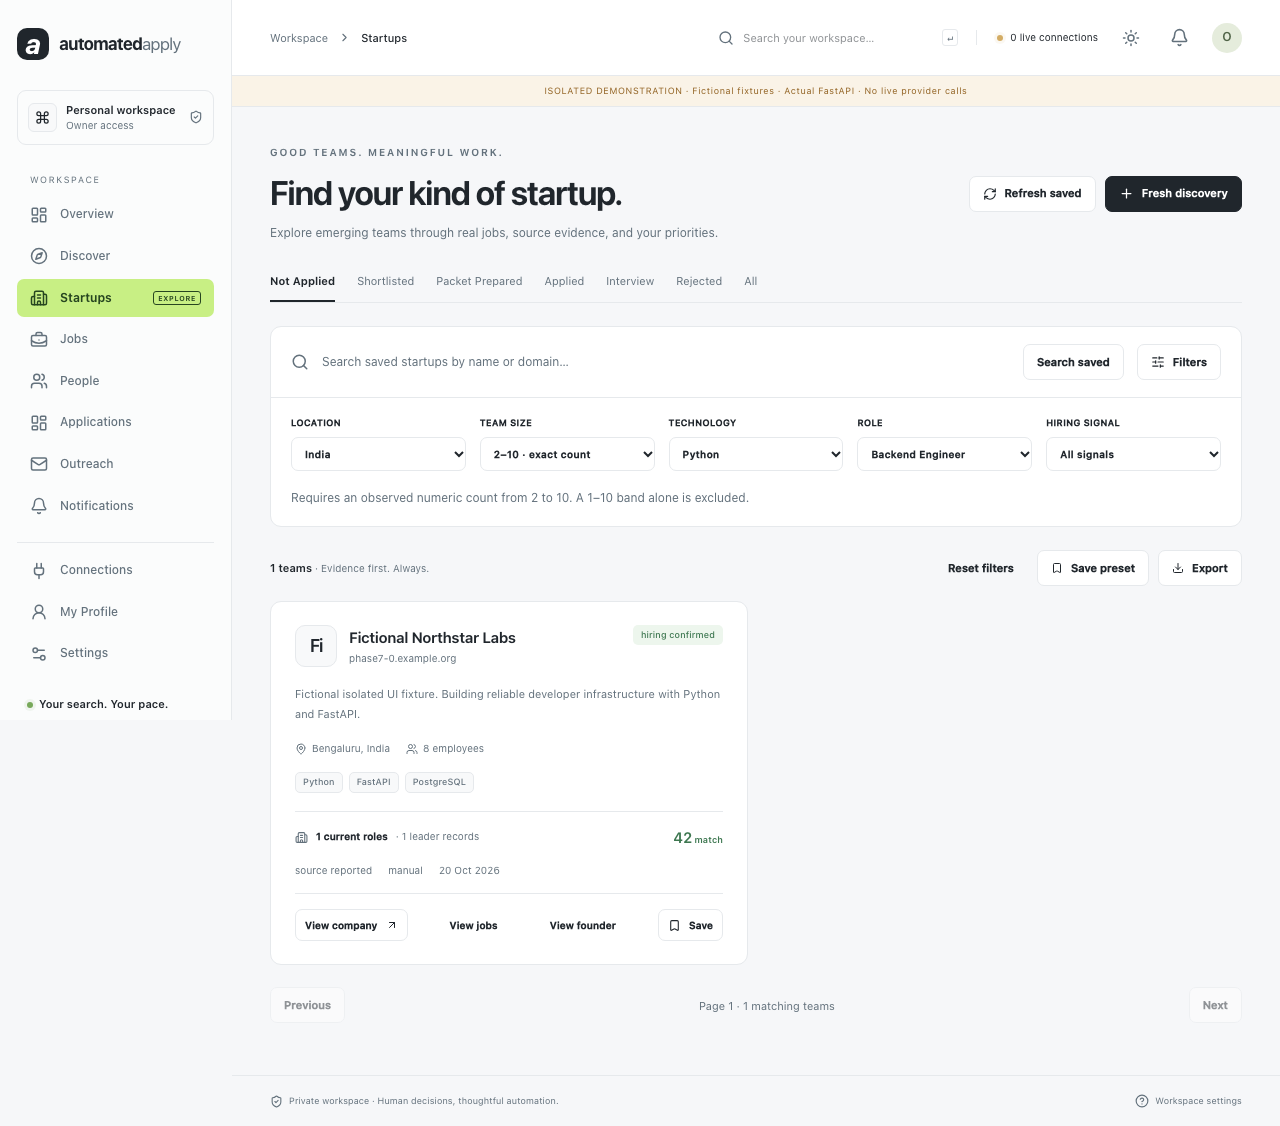
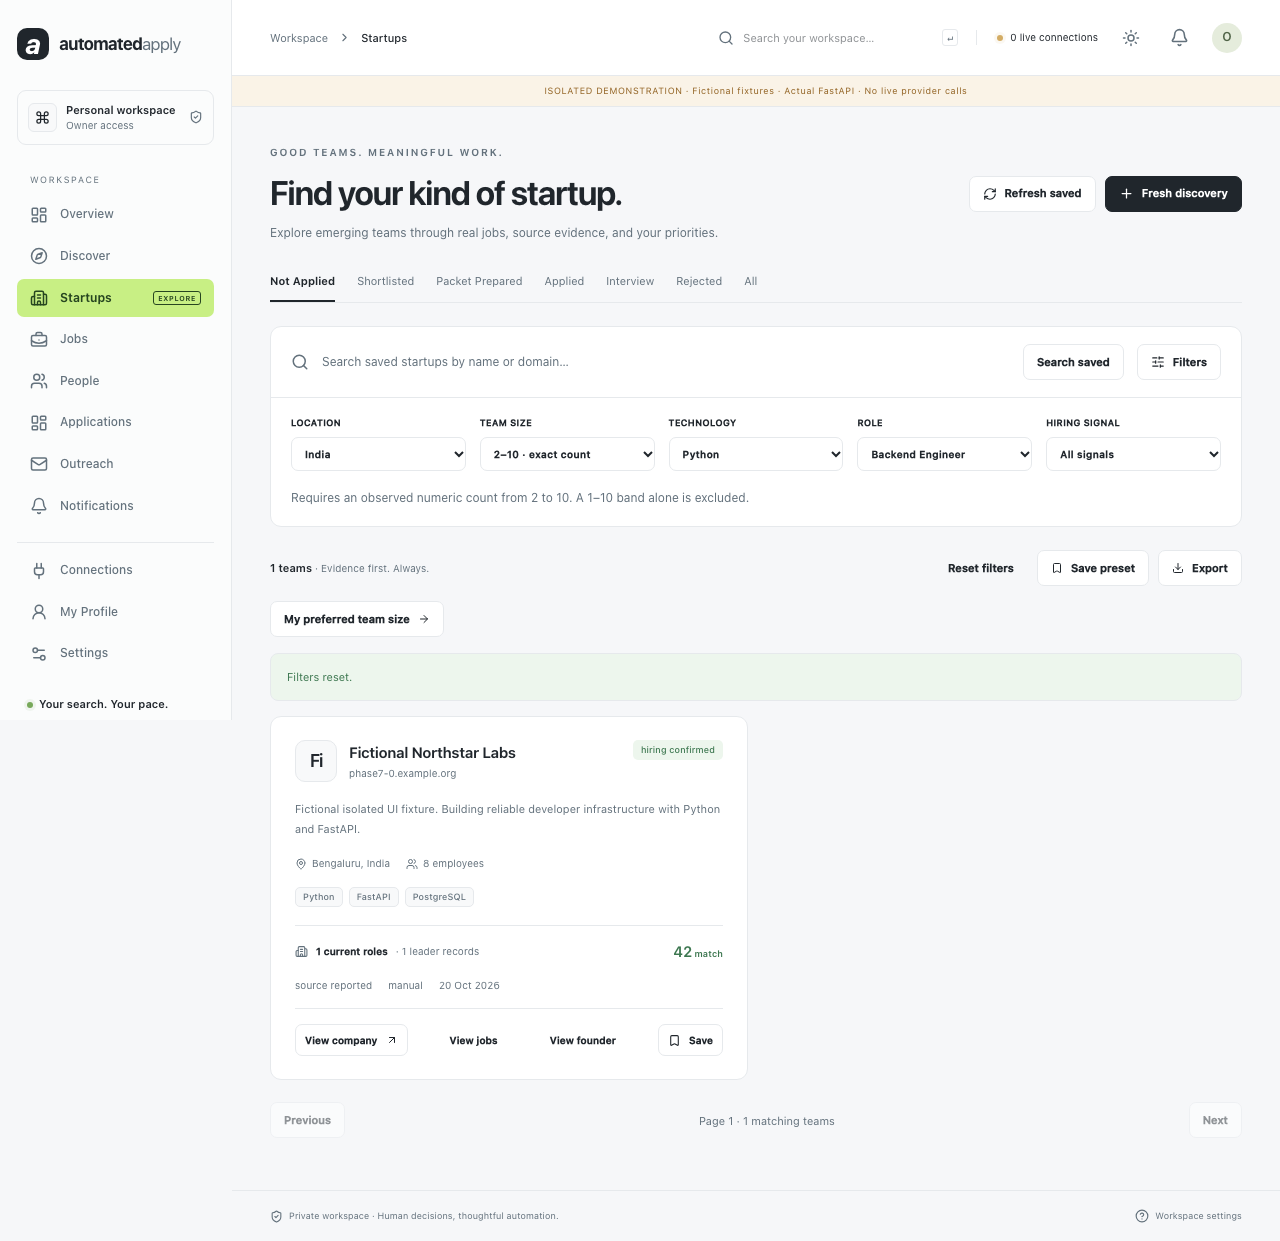
fix: preserve startup size preferences and synchronize global search

diff --git a/frontend/tests/e2e/journeys.spec.ts b/frontend/tests/e2e/journeys.spec.ts
@@ -87,6 +87,7 @@ test.describe.serial("Actual FastAPI with isolated fictional fixtures", () => {
     await page.getByRole("button", { name: "Continue", exact: true }).click();
     await page.getByLabel("Target job titles").fill("Backend Engineer");
     await page.getByLabel("Preferred locations").fill("India");
+    await page.getByLabel("Startup team size").selectOption("51-200");
     await page.getByRole("button", { name: "Continue", exact: true }).click();
     await page
       .getByRole("checkbox", { name: "I reviewed these facts", exact: false })
@@ -98,6 +99,28 @@ test.describe.serial("Actual FastAPI with isolated fictional fixtures", () => {
       }),
     ).toBeVisible();
     await page.goto("/startups");
+    await page
+      .getByRole("button", { name: "My preferred team size", exact: true })
+      .click();
+    await expect(page.getByText("1 teams", { exact: true })).toBeVisible();
+    await expect(
+      page.getByRole("link", { name: "Fictional Large Team", exact: true }),
+    ).toBeVisible();
+    await page
+      .getByRole("button", { name: "Reset filters", exact: true })
+      .click();
+    await page.getByLabel("Search saved companies").fill("Northstar");
+    await page.getByLabel("Search saved companies").press("Enter");
+    await expect(page.getByText("1 teams", { exact: true })).toBeVisible();
+    await expect(
+      page.getByRole("link", { name: "Fictional Northstar Labs", exact: true }),
+    ).toBeVisible();
+    await expect(
+      page.getByRole("link", { name: "Fictional Large Team", exact: true }),
+    ).not.toBeVisible();
+    await page.getByLabel("Search saved companies").fill("");
+    await page.getByLabel("Search saved companies").press("Enter");
+    await expect(page.getByText("4 teams", { exact: true })).toBeVisible();
     await page.getByLabel("Location", { exact: true }).selectOption("India");
     await page.getByLabel("Company size").selectOption("2-10");
     await page.getByLabel("Technology", { exact: true }).selectOption("Python");

diff --git a/frontend/src/features/profile.tsx b/frontend/src/features/profile.tsx
@@ -1,6 +1,7 @@
 "use client";
 import { useEffect, useState } from "react";
 import { ProjectsEditor } from "@/components/projects-editor";
+import { sizeFilter } from "./startups";
 import { useForm } from "react-hook-form";
 import { zodResolver } from "@hookform/resolvers/zod";
 import { z } from "zod";
@@ -327,19 +328,11 @@ export function ProfileWizard() {
           await post("dashboard/presets", {
             name: "My preferred team size",
             filters: {
-              ...(values.startup_size === "2-10"
-                ? {
-                    min_employees: 2,
-                    max_employees: 10,
-                    exact_employee_count: true,
-                    include_unknown_size: false,
-                  }
-                : values.startup_size === "any"
-                  ? {}
-                  : {
-                      size_bands: [values.startup_size],
-                      include_unknown_size: false,
-                    }),
+              ...sizeFilter(
+                values.startup_size === "any" ? "all" : values.startup_size,
+              ),
+              use_profile: false,
+              application_status: "not_applied",
             },
           });
         } catch {

diff --git a/frontend/src/features/startups.tsx b/frontend/src/features/startups.tsx
@@ -1,5 +1,5 @@
 "use client";
-import { useState } from "react";
+import { useEffect, useState } from "react";
 import Link from "next/link";
 import { useSearchParams } from "next/navigation";
 import { useMutation, useQuery, useQueryClient } from "@tanstack/react-query";
@@ -119,6 +119,14 @@ export function StartupExplorer() {
     [presetOpen, setPresetOpen] = useState(false),
     [presetName, setPresetName] = useState(""),
     [message, setMessage] = useState("");
+  const globalQuery = params.get("q");
+  useEffect(() => {
+    setFilters((current) => ({
+      ...current,
+      query: globalQuery || null,
+      page: 1,
+    }));
+  }, [globalQuery]);
   const update = (value: Partial<Schema<"StartupFilters">>) =>
     setFilters((f) => ({ ...f, ...value, page: 1 }));
   const result = useQuery({

diff --git a/frontend/tests/components.test.tsx b/frontend/tests/components.test.tsx
@@ -72,3 +72,16 @@ it("keeps an opened application separate from submission", () => {
     }),
   ).toBe("Applied — User Reported");
 });
+
+it("preserves larger and unrestricted size presets without inheriting the default 50-person cap", () => {
+  expect(sizeFilter("51-200")).toMatchObject({
+    max_employees: null,
+    size_bands: ["51-200"],
+    include_unknown_size: false,
+  });
+  expect(sizeFilter("all")).toMatchObject({
+    max_employees: null,
+    min_employees: null,
+    size_bands: [],
+  });
+});

diff --git a/docs/phase7-frontend.md b/docs/phase7-frontend.md
@@ -73,4 +73,4 @@ All images below show the actual frontend and FastAPI with **fictional test fixt
 - [Owner link review](screenshots/phase7/phase7-onboarding.png)
 - [Application review and manual handoff](screenshots/phase7/phase7-application-review.png)
 
-Verified locally: 1,048 backend tests (zero failures/skips, including disposable PostgreSQL), 25 frontend unit/component/security tests, five Playwright journeys, zero axe violations in light/dark startup views, type checking, production build, Ruff, Bandit, npm audit, secret checks and non-root Docker build/import plus Linux PDF-worker verification. CI must additionally pass on the PR head.
+Verified locally: 1,048 backend tests (zero failures/skips, including disposable PostgreSQL), 26 frontend unit/component/security tests, five Playwright journeys, zero axe violations in light/dark startup views, type checking, production build, Ruff, Bandit, npm audit, secret checks and non-root Docker build/import plus Linux PDF-worker verification. CI must additionally pass on the PR head.
